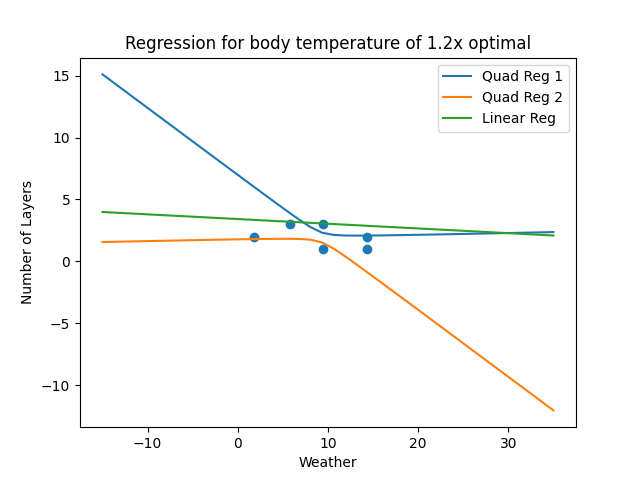
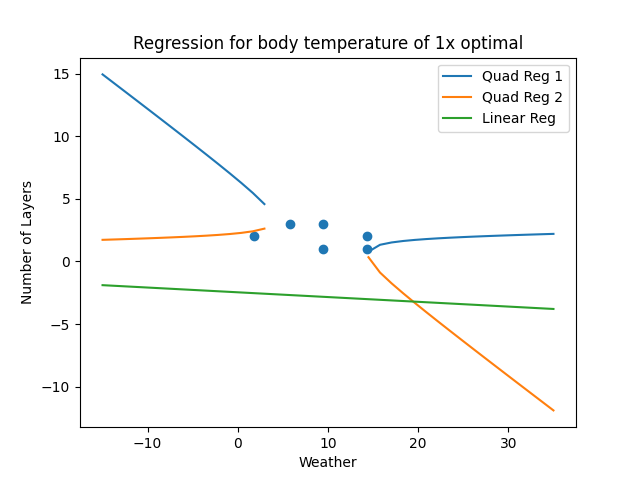
comment from python script

diff --git a/chart_build.py b/chart_build.py
@@ -113,7 +113,7 @@ coef_weather, coef_layers, intercept, score = list(map(float, open('temp_data/ML
 
 fig = plt.figure()
 
-desired_temp = 1.2
+desired_temp = 1
 
 wea_range = np.linspace(-15,35,40)
 
